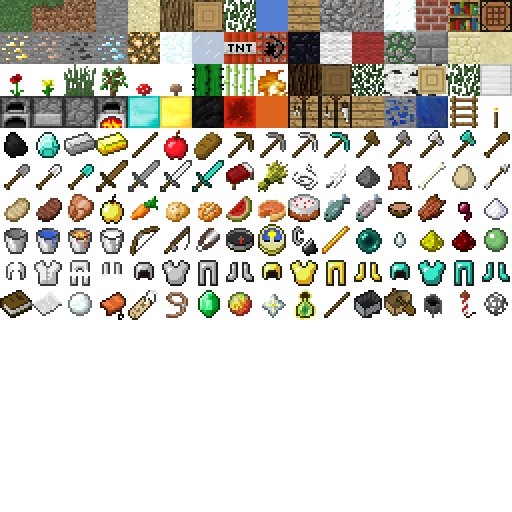
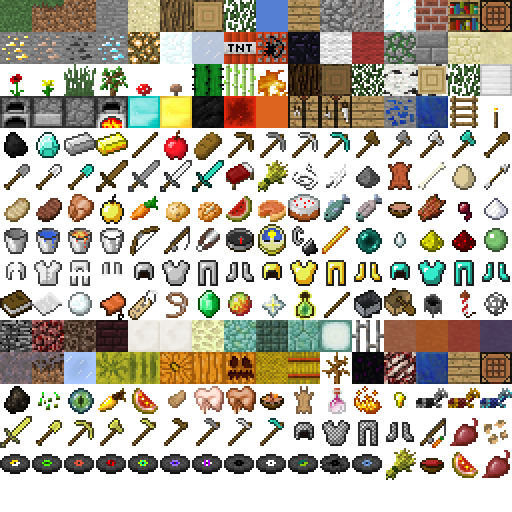
feat: huge 1.8/1.9 expansion — 28 blocks + 50 items + id-namespace refactor
Atlas
- build_mc_atlas.py extended to fill rows 10-14 (was unused) from the
  real 1.9 pack. Result: 20 new block-face tiles + 50 new item icons.

ID namespace
- Removed the hard "block id < 50, item id >= 50" split. Refactored
  isBlockId(id) / isItemId(id) / getItemTile / isPlaceable to look up
  BLOCKS or ITEMS by id. Blocks now live at 1-49 AND 150-173;
  items live at 50-149 AND 174-211. Inventory.bestToolTier,
  Inventory.maxStackFor, BlockIconCache.shouldRenderAsBlock,
  PlayerModel.buildHeldItemModel all updated.

New BLOCKS (28 cube blocks)
- 46 Lava, 47 Bedrock, 48 Netherrack, 49 Soul Sand
- 150 Nether Bricks, 151 Quartz Block, 152 Nether Quartz Ore,
  153 End Stone, 154 Prismarine, 155 Dark Prismarine,
  156 Prismarine Bricks, 157 Sea Lantern, 158 Iron Bars,
  159-162 Hardened Clay (plain + orange/red/blue stained),
  163 Mycelium, 164 Packed Ice, 165 Melon, 166 Pumpkin,
  167 Hay Bale, 168 Dead Bush (cross-shape), 169 Dragon Egg,
  170 Coal Block, 171 Chest, 172 Redstone Block, 173 Redstone Torch
  All get appropriate hardness + tool + emissive flags.

New ITEMS (50 item icons)
- 143 Charcoal, 144 Wheat Seeds, 145 Eye of Ender,
  146 Golden Carrot, 147 Glistering Melon, 148 Rabbit's Foot,
  149 Raw Rabbit, 174-176 Cooked Rabbit / Rabbit Stew / Rabbit Hide
  177 Dragon's Breath, 178 Blaze Powder, 179 Gold Nugget,
  180-182 Iron/Gold/Diamond Horse Armor
  183-186 Golden Sword/Shovel/Pickaxe/Axe (tier 1, 32 durability)
[…]

Changed region(s): [[0.0, 0.625, 1.0, 0.9375]]

diff --git a/client/src/classic/Textures.ts b/client/src/classic/Textures.ts
@@ -203,6 +203,88 @@ export const T_I_BOAT         = T(12, 9);
 export const T_I_FIREWORKS    = T(14, 9);
 export const T_I_FIRE_CHARGE  = T(15, 9);
 
+// ── Rows 10-11: new block face tiles ──────────────────────────────────────
+export const T_BEDROCK         = T(0, 10);
+export const T_NETHERRACK      = T(1, 10);
+export const T_SOUL_SAND       = T(2, 10);
+export const T_NETHER_BRICK    = T(3, 10);
+export const T_QUARTZ_TOP      = T(4, 10);
+export const T_QUARTZ_SIDE     = T(5, 10);
+export const T_END_STONE       = T(6, 10);
+export const T_PRISMARINE      = T(7, 10);
+export const T_PRISMARINE_DARK = T(8, 10);
+export const T_PRISMARINE_BRICK= T(9, 10);
+export const T_SEA_LANTERN     = T(10, 10);
+export const T_IRON_BARS       = T(11, 10);
+export const T_HARDENED_CLAY   = T(12, 10);
+export const T_HARDENED_CLAY_O = T(13, 10);
+export const T_HARDENED_CLAY_R = T(14, 10);
+export const T_HARDENED_CLAY_B = T(15, 10);
+export const T_MYCELIUM_TOP    = T(0, 11);
+export const T_MYCELIUM_SIDE   = T(1, 11);
+export const T_PACKED_ICE      = T(2, 11);
+export const T_MELON_TOP       = T(3, 11);
+export const T_MELON_SIDE      = T(4, 11);
+export const T_PUMPKIN_TOP     = T(5, 11);
+export const T_PUMPKIN_SIDE    = T(6, 11);
+export const T_PUMPKIN_FACE    = T(7, 11);
+export const T_HAY_TOP         = T(8, 11);
+export const T_HAY_SIDE        = T(9, 11);
+export const T_DEADBUSH        = T(10, 11);
+export const T_DRAGON_EGG      = T(11, 11);
+export const T_QUARTZ_ORE      = T(12, 11);
+export const T_LAPIS_BLOCK_2   = T(13, 11);
+export const T_CHEST_SIDE      = T(14, 11);
+export const T_CHEST_TOP_2     = T(15, 11);
+
+// ── Rows 12-14: new item icons ────────────────────────────────────────────
+export const T_I_CHARCOAL      = T(0, 12);
+export const T_I_WHEAT_SEEDS   = T(1, 12);
+export const T_I_ENDER_EYE     = T(2, 12);
+export const T_I_GOLD_CARROT   = T(3, 12);
+export const T_I_SPECKLED_MELON= T(4, 12);
+export const T_I_RABBIT_FOOT   = T(5, 12);
+export const T_I_RABBIT_RAW    = T(6, 12);
+export const T_I_RABBIT_COOKED = T(7, 12);
+export const T_I_RABBIT_STEW   = T(8, 12);
+export const T_I_RABBIT_HIDE   = T(9, 12);
+export const T_I_DRAGON_BREATH = T(10, 12);
+export const T_I_BLAZE_POWDER  = T(11, 12);
+export const T_I_GOLD_NUGGET   = T(12, 12);
+export const T_I_IRON_HORSE_A  = T(13, 12);
+export const T_I_GOLD_HORSE_A  = T(14, 12);
+export const T_I_DIAM_HORSE_A  = T(15, 12);
+export const T_I_GOLD_SWORD    = T(0, 13);
+export const T_I_GOLD_SHOVEL   = T(1, 13);
+export const T_I_GOLD_PICK     = T(2, 13);
+export const T_I_GOLD_AXE      = T(3, 13);
+export const T_I_GOLD_HOE      = T(4, 13);
+export const T_I_WOOD_HOE      = T(5, 13);
+export const T_I_STONE_HOE     = T(6, 13);
+export const T_I_IRON_HOE      = T(7, 13);
+export const T_I_DIAM_HOE      = T(8, 13);
+export const T_I_CHAIN_HELM    = T(9, 13);
+export const T_I_CHAIN_CHEST   = T(10, 13);
+export const T_I_CHAIN_LEGS    = T(11, 13);
+export const T_I_CHAIN_BOOTS   = T(12, 13);
+export const T_I_CARROT_STICK  = T(13, 13);
+export const T_I_BEETROOT      = T(14, 13);
+export const T_I_BEETROOT_SEEDS= T(15, 13);
+// Music discs
+export const T_I_DISC_13       = T(0, 14);
+export const T_I_DISC_CAT      = T(1, 14);
+export const T_I_DISC_BLOCKS   = T(2, 14);
+export const T_I_DISC_CHIRP    = T(3, 14);
+export const T_I_DISC_FAR      = T(4, 14);
+export const T_I_DISC_MALL     = T(5, 14);
+export const T_I_DISC_MELLOHI  = T(6, 14);
+export const T_I_DISC_STAL     = T(7, 14);
+export const T_I_DISC_STRAD    = T(8, 14);
+export const T_I_DISC_WARD     = T(9, 14);
+export const T_I_DISC_11       = T(10, 14);
+export const T_I_DISC_WAIT     = T(11, 14);
+export const T_I_BEETROOT_SOUP = T(13, 14);
+
 // ── Block definitions ─────────────────────────────────────────────────────────
 export const BLOCKS: Record<number, BlockDef> = {
   1:  { faces: [T_GRASS_SIDE, T_GRASS_SIDE, T_GRASS_TOP, T_DIRT, T_GRASS_SIDE, T_GRASS_SIDE], hardness: 0.6, drop: 2, tool: "shovel" },
@@ -252,6 +334,40 @@ export const BLOCKS: Record<number, BlockDef> = {
   // Desert cactus — block-shaped to keep meshing simple; can't actually
   // damage the player (TODO if we want stricter parity with vanilla).
   45: { faces: all6(T_CACTUS), hardness: 0.4 },
+  // ── 1.8/1.9 expansion ──────────────────────────────────────────────────
+  46: { faces: all6(T_LAVA), transparent: true, isWater: true, solid: false, hardness: 0, drop: 0, emissive: true },
+  47: { faces: all6(T_BEDROCK), hardness: -1, drop: 0 },                                       // bedrock — unbreakable
+  48: { faces: all6(T_NETHERRACK), hardness: 0.4, tool: "pickaxe" },
+  49: { faces: all6(T_SOUL_SAND), hardness: 0.5, tool: "shovel" },
+  // (skip ids 50+ — items)
+  150: { faces: all6(T_NETHER_BRICK), hardness: 2.0, tool: "pickaxe", minToolTier: 1 },
+  151: { faces: [T_QUARTZ_SIDE, T_QUARTZ_SIDE, T_QUARTZ_TOP, T_QUARTZ_TOP, T_QUARTZ_SIDE, T_QUARTZ_SIDE], hardness: 0.8, tool: "pickaxe" },
+  152: { faces: all6(T_QUARTZ_ORE), hardness: 3.0, tool: "pickaxe", drop: 51 /* drops quartz-like item — reuse diamond for now */ },
+  153: { faces: all6(T_END_STONE), hardness: 3.0, tool: "pickaxe" },
+  154: { faces: all6(T_PRISMARINE), hardness: 1.5, tool: "pickaxe" },
+  155: { faces: all6(T_PRISMARINE_DARK), hardness: 1.5, tool: "pickaxe" },
+  156: { faces: all6(T_PRISMARINE_BRICK), hardness: 1.5, tool: "pickaxe" },
+  157: { faces: all6(T_SEA_LANTERN), hardness: 0.3, emissive: true },
+  158: { faces: all6(T_IRON_BARS), transparent: true, hardness: 5.0, tool: "pickaxe" },
+  159: { faces: all6(T_HARDENED_CLAY), hardness: 1.25, tool: "pickaxe" },
+  160: { faces: all6(T_HARDENED_CLAY_O), hardness: 1.25, tool: "pickaxe" },
+  161: { faces: all6(T_HARDENED_CLAY_R), hardness: 1.25, tool: "pickaxe" },
+  162: { faces: all6(T_HARDENED_CLAY_B), hardness: 1.25, tool: "pickaxe" },
+  163: { faces: [T_MYCELIUM_SIDE, T_MYCELIUM_SIDE, T_MYCELIUM_TOP, T_DIRT, T_MYCELIUM_SIDE, T_MYCELIUM_SIDE], hardness: 0.6, tool: "shovel" },
+  164: { faces: all6(T_PACKED_ICE), hardness: 0.5, drop: 0, tool: "pickaxe" },
+  165: { faces: [T_MELON_SIDE, T_MELON_SIDE, T_MELON_TOP, T_MELON_TOP, T_MELON_SIDE, T_MELON_SIDE], hardness: 1.0, tool: "axe" },
+  166: { faces: [T_PUMPKIN_SIDE, T_PUMPKIN_SIDE, T_PUMPKIN_TOP, T_PUMPKIN_TOP, T_PUMPKIN_FACE, T_PUMPKIN_SIDE], hardness: 1.0, tool: "axe" },
+  167: { faces: [T_HAY_SIDE, T_HAY_SIDE, T_HAY_TOP, T_HAY_TOP, T_HAY_SIDE, T_HAY_SIDE], hardness: 0.5 },
+  168: { faces: all6(T_DEADBUSH), transparent: true, solid: false, crossShape: true, hardness: 0 },
+  169: { faces: all6(T_DRAGON_EGG), hardness: 3.0, emissive: true },
+  170: { faces: all6(T_COAL_BLOCK), hardness: 5.0, tool: "pickaxe" },
+  // Chest (uses chest placeholder tiles)
+  171: { faces: [T_CHEST_SIDE, T_CHEST_SIDE, T_CHEST_TOP_2, T_CHEST_TOP_2, T_CHEST_SIDE, T_CHEST_SIDE], hardness: 2.5, tool: "axe" },
+  // Redstone block (uses already-atlas redstone-block tile T_REDSTONE_O at T(7,3))
+  172: { faces: all6(T(7, 3)), hardness: 5.0, tool: "pickaxe" },
+  // Redstone torch — just a regular emissive cross-shape; uses torch tile tinted red conceptually,
+  // but we don't have a separate tile, so reuse the torch tile.
+  173: { faces: all6(T_TORCH), transparent: true, solid: false, crossShape: true, emissive: true, hardness: 0 },
 };
 
 // ── Items (id >= 50 = items, not placeable blocks) ────────────────────────────
@@ -355,6 +471,58 @@ export const ITEMS: Record<number, { name: string; tile: number; tool?: "axe" | 
   140: { name: "Boat",          tile: T_I_BOAT },
   141: { name: "Firework Rocket", tile: T_I_FIREWORKS },
   142: { name: "Fire Charge",   tile: T_I_FIRE_CHARGE },
+  // ── 1.8/1.9 item expansion ─────────────────────────────────────────────
+  143: { name: "Charcoal",      tile: T_I_CHARCOAL },
+  144: { name: "Wheat Seeds",   tile: T_I_WHEAT_SEEDS },
+  145: { name: "Eye of Ender",  tile: T_I_ENDER_EYE },
+  146: { name: "Golden Carrot", tile: T_I_GOLD_CARROT, food: 6 },
+  147: { name: "Glistering Melon", tile: T_I_SPECKLED_MELON },
+  148: { name: "Rabbit's Foot", tile: T_I_RABBIT_FOOT },
+  149: { name: "Raw Rabbit",    tile: T_I_RABBIT_RAW,    food: 3 },
+  // (150-173 are BLOCKS)
+  174: { name: "Cooked Rabbit", tile: T_I_RABBIT_COOKED, food: 5 },
+  175: { name: "Rabbit Stew",   tile: T_I_RABBIT_STEW,   food: 10 },
+  176: { name: "Rabbit Hide",   tile: T_I_RABBIT_HIDE },
+  177: { name: "Dragon's Breath", tile: T_I_DRAGON_BREATH },
+  178: { name: "Blaze Powder",  tile: T_I_BLAZE_POWDER },
+  179: { name: "Gold Nugget",   tile: T_I_GOLD_NUGGET },
+  180: { name: "Iron Horse Armor", tile: T_I_IRON_HORSE_A },
+  181: { name: "Gold Horse Armor", tile: T_I_GOLD_HORSE_A },
+  182: { name: "Diamond Horse Armor", tile: T_I_DIAM_HORSE_A },
+  // Golden tools (full tier)
+  183: { name: "Golden Sword",  tile: T_I_GOLD_SWORD,  tool: "sword",   toolTier: 1, durability: 32 },
+  184: { name: "Golden Shovel", tile: T_I_GOLD_SHOVEL, tool: "shovel",  toolTier: 1, durability: 32 },
+  185: { name: "Golden Pickaxe", tile: T_I_GOLD_PICK,  tool: "pickaxe", toolTier: 1, durability: 32 },
+  186: { name: "Golden Axe",    tile: T_I_GOLD_AXE,    tool: "axe",     toolTier: 1, durability: 32 },
+  // Hoes
+  187: { name: "Golden Hoe",    tile: T_I_GOLD_HOE,    tool: "shovel",  toolTier: 1, durability: 32 },
+  188: { name: "Wooden Hoe",    tile: T_I_WOOD_HOE,    tool: "shovel",  toolTier: 1, durability: 59 },
+  189: { name: "Stone Hoe",     tile: T_I_STONE_HOE,   tool: "shovel",  toolTier: 2, durability: 131 },
+  190: { name: "Iron Hoe",      tile: T_I_IRON_HOE,    tool: "shovel",  toolTier: 3, durability: 250 },
+  191: { name: "Diamond Hoe",   tile: T_I_DIAM_HOE,    tool: "shovel",  toolTier: 4, durability: 1561 },
+  // Chainmail armor
+  192: { name: "Chainmail Helmet",     tile: T_I_CHAIN_HELM,   durability: 165 },
+  193: { name: "Chainmail Chestplate", tile: T_I_CHAIN_CHEST,  durability: 240 },
+  194: { name: "Chainmail Leggings",   tile: T_I_CHAIN_LEGS,   durability: 225 },
+  195: { name: "Chainmail Boots",      tile: T_I_CHAIN_BOOTS,  durability: 195 },
+  // Misc 1.8/1.9
+  196: { name: "Carrot on a Stick",    tile: T_I_CARROT_STICK },
+  197: { name: "Beetroot",             tile: T_I_BEETROOT,        food: 1 },
+  198: { name: "Beetroot Seeds",       tile: T_I_BEETROOT_SEEDS },
+  199: { name: "Beetroot Soup",        tile: T_I_BEETROOT_SOUP,   food: 6 },
+  // Music discs
+  200: { name: "Music Disc — 13",      tile: T_I_DISC_13 },
+  201: { name: "Music Disc — Cat",     tile: T_I_DISC_CAT },
+  202: { name: "Music Disc — Blocks",  tile: T_I_DISC_BLOCKS },
+  203: { name: "Music Disc — Chirp",   tile: T_I_DISC_CHIRP },
+  204: { name: "Music Disc — Far",     tile: T_I_DISC_FAR },
+  205: { name: "Music Disc — Mall",    tile: T_I_DISC_MALL },
+  206: { name: "Music Disc — Mellohi", tile: T_I_DISC_MELLOHI },
+  207: { name: "Music Disc — Stal",    tile: T_I_DISC_STAL },
+  208: { name: "Music Disc — Strad",   tile: T_I_DISC_STRAD },
+  209: { name: "Music Disc — Ward",    tile: T_I_DISC_WARD },
+  210: { name: "Music Disc — 11",      tile: T_I_DISC_11 },
+  211: { name: "Music Disc — Wait",    tile: T_I_DISC_WAIT },
 };
 
 export const BLOCK_NAMES: Record<number, string> = {
@@ -370,26 +538,36 @@ export const BLOCK_NAMES: Record<number, string> = {
   36: "Crafting Table", 37: "Furnace", 38: "Furnace (Lit)",
   39: "Iron Block", 40: "Gold Block", 41: "Diamond Block",
   42: "Torch", 43: "Ladder", 44: "Bed", 45: "Cactus",
+  46: "Lava", 47: "Bedrock", 48: "Netherrack", 49: "Soul Sand",
+  150: "Nether Bricks", 151: "Quartz Block", 152: "Nether Quartz Ore",
+  153: "End Stone", 154: "Prismarine", 155: "Dark Prismarine",
+  156: "Prismarine Bricks", 157: "Sea Lantern", 158: "Iron Bars",
+  159: "Hardened Clay", 160: "Orange Hardened Clay", 161: "Red Hardened Clay",
+  162: "Blue Hardened Clay", 163: "Mycelium", 164: "Packed Ice",
+  165: "Melon", 166: "Pumpkin", 167: "Hay Bale", 168: "Dead Bush",
+  169: "Dragon Egg", 170: "Coal Block", 171: "Chest", 172: "Redstone Block",
+  173: "Redstone Torch",
 };
 
 // Creative hotbar default
 export const CREATIVE_HOTBAR = [1, 3, 9, 8, 5, 36, 37, 22, 11];
 
+/** ID classification — block ids may exceed 50 now that we have 1.8/1.9 expansion blocks. */
+export function isBlockId(id: number): boolean { return id > 0 && !!BLOCKS[id]; }
+export function isItemId(id: number): boolean  { return id > 0 && !!ITEMS[id]; }
+
 export function getItemTile(id: number): number {
   if (id === 0) return 0;
-  if (id < 50) {
-    const def = BLOCKS[id];
-    if (!def) return 0;
-    return def.iconTile ?? def.faces[0] ?? 0;
-  }
+  const def = BLOCKS[id];
+  if (def) return def.iconTile ?? def.faces[0] ?? 0;
   return ITEMS[id]?.tile ?? 0;
 }
 export function getItemName(id: number): string {
-  if (id < 50) return BLOCK_NAMES[id] ?? `Block ${id}`;
+  if (BLOCK_NAMES[id]) return BLOCK_NAMES[id];
   return ITEMS[id]?.name ?? `Item ${id}`;
 }
 export function isPlaceable(id: number): boolean {
-  return id > 0 && id < 50 && !!BLOCKS[id];
+  return isBlockId(id);
 }
 
 /** UV rect for a tile index in 0..1 atlas space. */

diff --git a/client/src/classic/Inventory.ts b/client/src/classic/Inventory.ts
@@ -1,4 +1,4 @@
-import { ITEMS, BLOCKS, CREATIVE_HOTBAR } from "./Textures";
+import { ITEMS, BLOCKS, CREATIVE_HOTBAR, isBlockId, isItemId } from "./Textures";
 
 export const HOTBAR_SLOTS = 9;
 export const INV_SLOTS = 27;
@@ -15,7 +15,9 @@ const TOOL_STACK = 1;
 
 function maxStackFor(id: number): number {
   if (id === 0) return 0;
-  if (id >= 50 && ITEMS[id]?.tool) return TOOL_STACK;  // tools don't stack
+  // Tools don't stack (regardless of which id range they live in).
+  if (ITEMS[id]?.tool) return TOOL_STACK;
+  if (ITEMS[id]?.durability) return TOOL_STACK; // durability-bearing items
   return MAX_STACK;
 }
 
@@ -56,8 +58,7 @@ export class Inventory {
   getHeldBlock(): number {
     const s = this.getHeld();
     if (s.id === 0 || s.count === 0) return 0;
-    if (s.id >= 50) return 0;
-    return s.id;
+    return isBlockId(s.id) ? s.id : 0;
   }
 
   /** All inventory slots (hotbar + main) for iteration. */
@@ -142,9 +143,9 @@ export class Inventory {
   bestToolTier(category: "axe" | "pickaxe" | "shovel" | "sword"): { id: number; tier: number } | null {
     let best: { id: number; tier: number } | null = null;
     for (const s of this.hotbar) {
-      if (s.id < 50 || s.count === 0) continue;
+      if (s.id === 0 || s.count === 0) continue;
       const item = ITEMS[s.id];
-      if (!item) continue;
+      if (!item) continue; // blocks aren't tools
       if (item.tool === category) {
         if (!best || (item.toolTier ?? 0) > best.tier) {
           best = { id: s.id, tier: item.toolTier ?? 1 };

diff --git a/client/src/classic/BlockIconCache.ts b/client/src/classic/BlockIconCache.ts
@@ -101,11 +101,11 @@ export const blockIconCache = new BlockIconCacheImpl();
  * bed) keep the flat atlas-tile path.
  */
 export function shouldRenderAsBlock(id: number): boolean {
-  if (id <= 0 || id >= 50) return false;
+  if (id <= 0) return false;
   const def = BLOCKS[id];
   if (!def) return false;
   if (def.iconTile !== undefined) return false;
-  // Cross-shape sprites (flowers, sapling, tallgrass) look weird as cubes.
   if (def.crossShape) return false;
+  if (def.isWater) return false; // skip water/lava — flat-tinted is fine
   return true;
 }

diff --git a/client/src/classic/PlayerModel.ts b/client/src/classic/PlayerModel.ts
@@ -269,7 +269,8 @@ export function buildFirstPersonArm(): FirstPersonArm | null {
  * does the same). For ITEMS we build a flat sprite-style plane.
  */
 export function buildHeldItemModel(itemId: number, opts: { firstPerson?: boolean } = {}): THREE.Object3D {
-  const isBlock = itemId > 0 && itemId < 50 && !!BLOCKS[itemId] && !BLOCKS[itemId].crossShape;
+  const def = BLOCKS[itemId];
+  const isBlock = !!def && !def.crossShape && !def.isWater;
   if (isBlock) return buildHeldBlock(itemId, opts);
   return buildHeldPlane(itemId, opts);
 }
